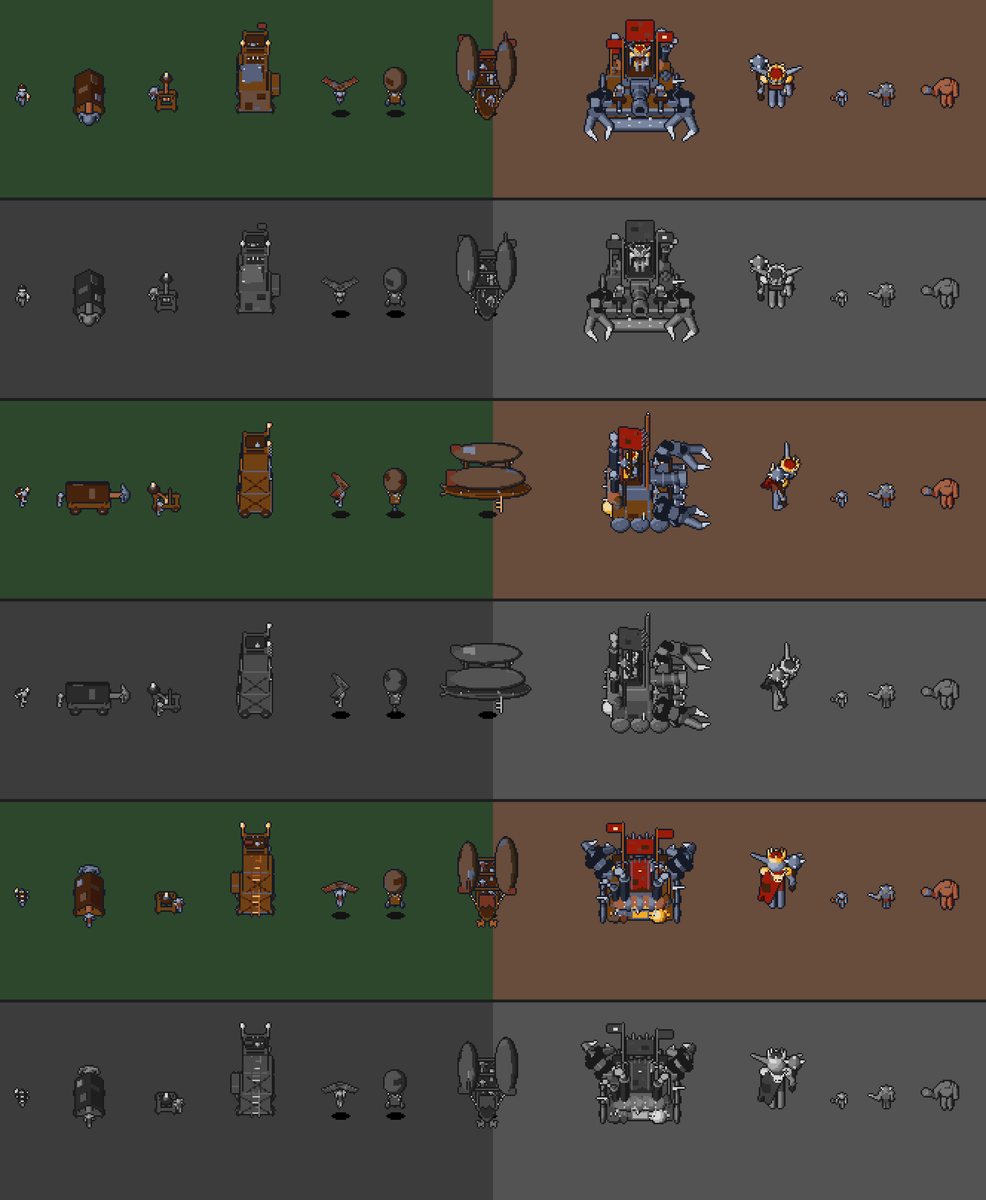
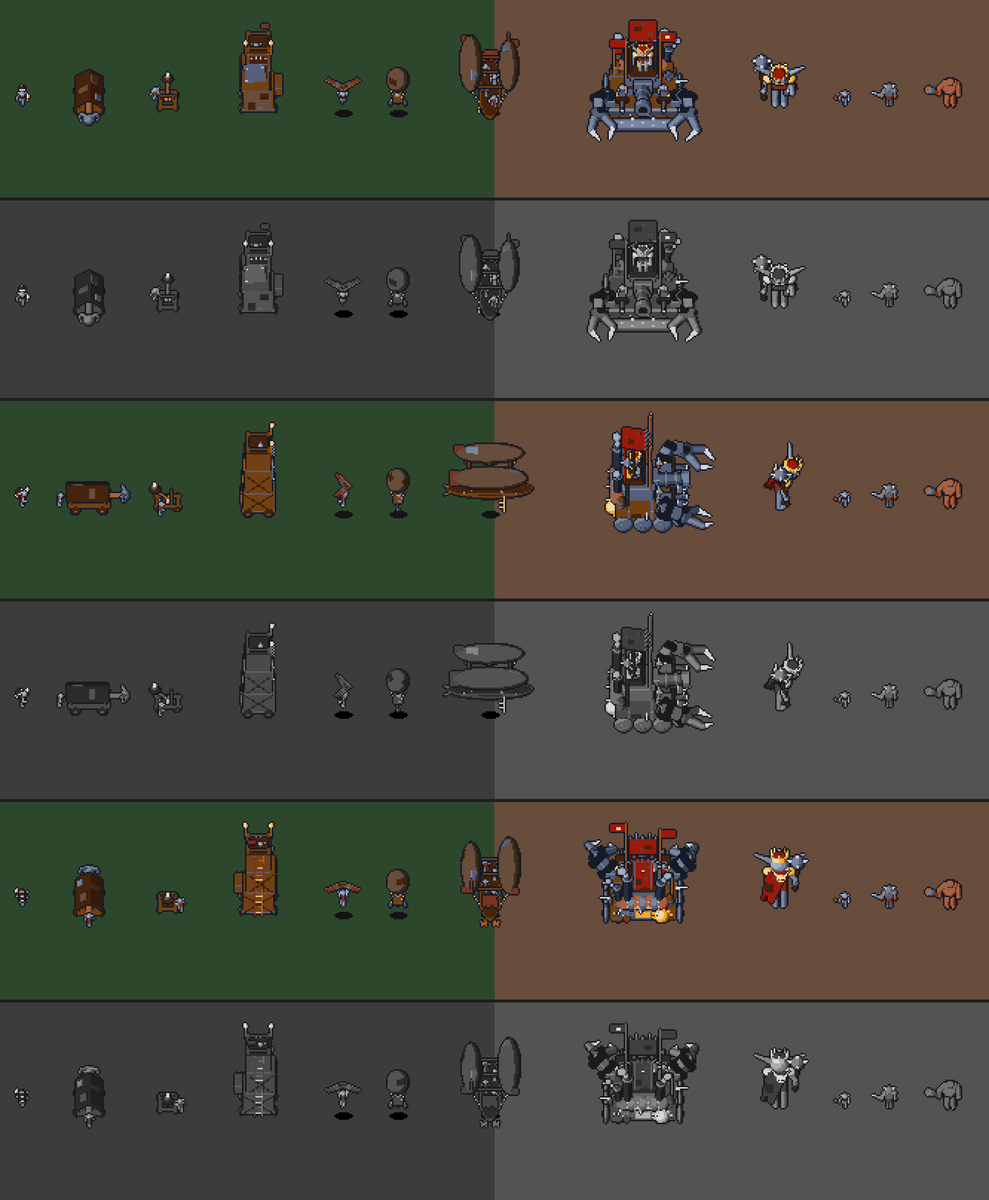
3라운드 고블린 약탈단 동작 그림 — 기계·하늘 6종 걷기 2위상·행동 자세, 설계 문서 3.11.2
시안 단계라 SPEC·EVAL·src·웨이브 수치는 그대로다. tools/art/raid.py의 MOVES에 망치·투석기·공성탑·글라이더·열기구·비행선을 더했다.
- 걷기 2위상(사용자 선택): 기계는 통과 자세에서 바퀴 위 차체만 1px 덜컹이고(lift), 땅을 걷는 고블린은 걷는다.
  하늘은 정지와 1px 출렁임을 번갈아. 글라이더 다리 바꿈, 열기구 불씨, 비행선 프로펠러 45°
- 행동 자세(Claude 안, 사용자 승인): 망치 통나무 당김 → 내지름, 투석기 장전 → 팔이 가로대에 부딪히고 통이 날아감,
  공성탑 다리판 45° → 수평, 글라이더 내린 뒤 날개를 등에 멘 고블린 내려치기, 열기구 폭탄 놓기, 비행선 사다리 매달림 → 떨어짐
- 공성탑 다리판 경첩을 위 끝으로: 아래 끝 경첩으로 내리면 북쪽 그림에서 탑 꼭대기에 늘 가렸다. 정지 그림은 그대로
- 정지 그림은 그대로(투석기만 걷는 고블린 다리로 캔버스 36→38). 전쟁 기계는 v8 Gemini 평가 뒤
- insights 3.11.2: 동작 결정, 약한 곳(비행선 투하·열기구 폭탄이 작음), 남은 그림(전쟁 기계, 잔해, fall)
- next/2026-11-02/r1.md 완료 → next/archive/2026-11-02-2/

검증: H5 통과(8종 × 정지·걷기·공격), raid.py preview 오류 없음,
전체 pytest 613 passed·51 skipped(147초), eval-run final 643 green(runOk true).

Claude-Session: https://claude.ai/code/session_01MrriHe5sVaY9UD1GxmGZ9Q

diff --git a/tools/art/raid.py b/tools/art/raid.py
@@ -55,6 +55,11 @@ def place(prims, s, at, yaw=0.0):
     return [(lambda p, f=f: s * f(((p - at) @ rot) / s), mat, part) for f, mat, part in prims]
 
 
+def lift(P, dz):
+    """형체 목록을 dz만큼 올린다. 걷기 통과 자세(bob)에서 바퀴 위 차체·하늘 탈것을 1px 덜컹·출렁이게 한다"""
+    return [(lambda p, f=f: f(p - np.array([0, 0, dz])), mat, part) for f, mat, part in P] if dz else P
+
+
 def crew(s, at, yaw=0.0, pose=IDLE, club=False):
     """작은 고블린 하나(고블린 시트 몸, 고블린 기본 0.8배에 s를 곱한 크기)"""
     body = [q for q in B.body(pose, 0) if club or q[2] != "club"]
@@ -125,8 +130,15 @@ def sapper(pose, bob_unit):
 
 
 def glider(pose, bob_unit):
-    """글라이더 고블린: 가로대를 쥐고 매달린 고블린 + 위의 뒤로 꺾인 삼각 천 날개(안쪽 기운 천, 날개 끝 넝마), 가운데 용골"""
-    p = dict(pose, sh_l=165, el_l=10, ab_l=0.3, sh_r=165, el_r=10, ab_r=0.3, hip_l=-15, hip_r=10, knee_l=40, knee_r=25)
+    """글라이더 고블린: 가로대를 쥐고 매달린 고블린 + 위의 뒤로 꺾인 삼각 천 날개(안쪽 기운 천, 날개 끝 넝마), 가운데 용골.
+    걷기 통과 자세(bob)에서 1px 출렁이며 늘어뜨린 다리를 바꾼다. 공격(pose의 landed)은 내린 뒤 날개를 등에 접어 멘 고블린의 몽둥이 내려치기다(사용자 2026-11-02)"""
+    if pose.get("landed"):
+        U = H.rig(pose, bob_unit)[0]
+        return B.body(pose, bob_unit) + [(R.capsule(U([-0.16, -0.21, 0.3]), U([0.2, -0.24, 1.25]), 0.06), m("canvas"), "gear"),  # 접은 날개 묶음
+                                         (R.capsule(U([-0.2, -0.25, 0.22]), U([0.24, -0.28, 1.36]), 0.018), m("wood"), "gear"),  # 용골
+                                         (R.ellipsoid(U([0.02, -0.22, 0.78]), (0.07, 0.07, 0.03)), m("rag"), "gear")]  # 묶은 넝마 띠
+    legs = dict(hip_l=10, hip_r=-15, knee_l=25, knee_r=40) if pose["bob"] else dict(hip_l=-15, hip_r=10, knee_l=40, knee_r=25)
+    p = dict(pose, sh_l=165, el_l=10, ab_l=0.3, sh_r=165, el_r=10, ab_r=0.3, bob=0, **legs)
     P = [q for q in B.body(p, bob_unit) if q[2] != "club"]
     z = 1.2
     nose = np.array([0, 0.38, z + 0.06])
@@ -145,7 +157,7 @@ def glider(pose, bob_unit):
         P += [(R.box(nose + d * 1.02 * t - y * s * 0.14 + ax[2] * 0.016, (0.09, 0.07, 0.006), ax), m(mat), "gear")
               for t, mat in {-1: ((0.27, "dark"),), 1: ((0.15, "dark"), (0.42, "iron"))}[s]]  # 기운 조각: 좌우 다르게(Gemini 2026-11-02 «패치워크»)
         P.append((R.capsule(nose, nose + d * 1.02, 0.018), m("wood"), "gear"))  # 앞 날개살
-    return P
+    return lift(P, pose["bob"] * bob_unit)
 
 
 SEATED = dict(IDLE, lean=0, hip_l=80, hip_r=80, knee_l=80, knee_r=80)  # 왕좌에 앉은 왕(전쟁 기계 위)
@@ -197,12 +209,14 @@ def chief(pose, bob_unit):
 
 def ram(pose, bob_unit):
     """공성 망치: 바퀴 넷 위 그을린 가죽 맞배지붕(비대칭으로 덧댄 판) 아래 큰 숫양 쇠머리 통나무(지붕 앞으로 길게 나옴), 뒤에서 미는 고블린.
-    밝은 천 지붕과 줄무늬는 «푸드트럭 포장마차»로 읽혔다(Gemini 2026-11-02)"""
-    P = []
+    밝은 천 지붕과 줄무늬는 «푸드트럭 포장마차»로 읽혔다(Gemini 2026-11-02).
+    걷기 통과 자세(bob)에서 바퀴 위 차체가 1px 덜컹이고, 공격(pose의 ram)은 통나무를 앞(+)·뒤(−)로 민다"""
+    W = []
     for x in (-0.4, 0.4):
         for y in (-0.42, 0.42):
-            P += wheel(x, y, 0.15)
-    P.append((R.box([0, 0, 0.29], (0.36, 0.62, 0.045)), m("plank"), "hull"))
+            W += wheel(x, y, 0.15)
+    push = np.array([0, pose.get("ram", 0.0), 0])
+    P = [(R.box([0, 0, 0.29], (0.36, 0.62, 0.045)), m("plank"), "hull")]
     for x in (-0.32, 0.32):
         for y in (-0.55, 0.5):
             P.append((R.capsule([x, y, 0.3], [x, y, 0.55], 0.03), m("plank"), "hull"))
@@ -212,22 +226,24 @@ def ram(pose, bob_unit):
         P.append((R.box(c, (0.25, 0.64, 0.03), ax, 0.01), m("dark"), "hull"))  # 그을린 가죽
         boards = {-1: ((0.06, -0.3, 0.13, 0.16, "canvas"), (-0.08, 0.38, 0.1, 0.12, "iron")), 1: ((-0.04, 0.12, 0.16, 0.1, "canvas"),)}[s]
         P += [(R.box(np.asarray(c) + ax[0] * u + ax[1] * v + ax[2] * 0.035, (hu, hv, 0.012), ax), m(mat), "hull") for u, v, hu, hv, mat in boards]  # 덧댄 판: 좌우가 다르게
-    P.append((R.capsule([0, -0.62, 0.42], [0, 1.02, 0.42], 0.085), m("wood"), "gear"))  # 통나무: 북쪽에서도 쇠머리가 지붕 너머로 보이게 길게(Gemini 2026-11-02)
-    P.append((R.ellipsoid([0, 1.12, 0.44], (0.17, 0.13, 0.17)), m("iron"), "gear"))  # 숫양 쇠머리: 크게, 둥글게 만 뿔
+    P.append((R.capsule(push + [0, -0.62, 0.42], push + [0, 1.02, 0.42], 0.085), m("wood"), "gear"))  # 통나무: 북쪽에서도 쇠머리가 지붕 너머로 보이게 길게(Gemini 2026-11-02)
+    P.append((R.ellipsoid(push + [0, 1.12, 0.44], (0.17, 0.13, 0.17)), m("iron"), "gear"))  # 숫양 쇠머리: 크게, 둥글게 만 뿔
     for s in (-1, 1):
-        horn = [[s * 0.1, 1.1, 0.56], [s * 0.24, 1.02, 0.6], [s * 0.3, 1.04, 0.44], [s * 0.22, 1.13, 0.36]]
+        horn = [push + p for p in ([s * 0.1, 1.1, 0.56], [s * 0.24, 1.02, 0.6], [s * 0.3, 1.04, 0.44], [s * 0.22, 1.13, 0.36])]
         P += [(R.capsule(a, b, 0.05 - 0.01 * i, 0.04 - 0.01 * i), m("iron"), "gear") for i, (a, b) in enumerate(zip(horn, horn[1:]))]
-    P += crew(0.85 / KINDS["ram"][1], [0, -0.92, 0])  # 망치를 키워도 미는 고블린은 보통 크기
-    return P
+    W += crew(0.85 / KINDS["ram"][1], [0, -0.92 + 0.5 * push[1], 0], pose=pose)  # 망치를 키워도 미는 고블린은 보통 크기. 땅을 걸으니 덜컹이지 않는다
+    return W + lift(P, pose["bob"] * bob_unit)
 
 
 def catapult(pose, bob_unit):
     """투석기: 낮은 바퀴 틀, 꼬인 밧줄 굴대, 뒤 위로 치켜든 팔 끝 큰 바구니의 불붙은 타르 통, 옆에 고블린.
-    팔을 틀 위로 들어 북쪽 뒷모습에서도 바구니와 돌이 틀 밖으로 솟는다(Gemini 2026-11-02 «개집»)"""
-    P = []
+    팔을 틀 위로 들어 북쪽 뒷모습에서도 바구니와 돌이 틀 밖으로 솟는다(Gemini 2026-11-02 «개집»).
+    걷기 통과 자세(bob)에서 바퀴 위 틀이 1px 덜컹이고, 공격(pose의 throw)은 팔이 앞으로 넘어가 앞 가로대에 부딪히며 타르 통이 앞 위로 날아간다"""
+    W = []
     for x in (-0.34, 0.34):
         for y in (-0.36, 0.36):
-            P += wheel(x, y, 0.13)
+            W += wheel(x, y, 0.13)
+    P = []
     for x in (-0.28, 0.28):
         P.append((R.box([x, 0, 0.22], (0.04, 0.5, 0.04)), m("plank"), "hull"))
     for y in (-0.4, 0.4):
@@ -236,13 +252,15 @@ def catapult(pose, bob_unit):
         P.append((R.capsule([x, 0.14, 0.24], [x, 0.14, 0.58], 0.035), m("plank"), "hull"))
     P.append((R.capsule([-0.25, 0.14, 0.56], [0.25, 0.14, 0.56], 0.03), m("plank"), "hull"))
     P.append((R.ellipsoid([0, 0.0, 0.28], (0.24, 0.06, 0.06)), m("rope"), "hull"))  # 꼬인 밧줄 굴대
-    end = np.array([0, -0.48, 0.82])
+    throw = pose.get("throw")
+    end = np.array([0, 0.27, 1.03] if throw else [0, -0.48, 0.82])  # 던진 팔: 굴대에서 거의 곧게 서서 앞 가로대(y 0.14, z 0.56)에 닿는다
     P.append((R.capsule([0, 0.08, 0.26], end, 0.045), m("wood"), "gear"))  # 치켜든 팔
     P.append((R.cut_above(R.ellipsoid(end + [0, -0.02, 0.03], (0.2, 0.2, 0.12)), end[2] - 0.06), m("dark"), "gear"))  # 큰 바구니(1.5배)
-    P.append((R.ellipsoid(end + [0, -0.02, 0.12], (0.13, 0.13, 0.11)), m("bomb"), "gear"))  # 타르 통: 흰 돌은 «눈알»로 읽혔다(Gemini 2026-11-02)
-    P.append((R.ellipsoid(end + [0, -0.02, 0.27], (0.08, 0.08, 0.11)), m("flame"), "gear"))
-    P += crew(0.85, [0.5, -0.3, 0], yaw=20)
-    return P
+    keg = np.array([0, 0.8, 1.35]) if throw else end + [0, -0.02, 0.12]  # 던지면 통이 앞 위로 날고 불은 뒤로 끌린다
+    P.append((R.ellipsoid(keg, (0.13, 0.13, 0.11)), m("bomb"), "gear"))  # 타르 통: 흰 돌은 «눈알»로 읽혔다(Gemini 2026-11-02)
+    P.append((R.ellipsoid(keg + ([0, -0.17, -0.04] if throw else [0, 0, 0.15]), (0.08, 0.08, 0.11)), m("flame"), "gear"))
+    W += crew(0.85, [0.5, -0.3, 0], yaw=20, pose=pose)  # 땅을 걸으니 덜컹이지 않는다
+    return W + lift(P, pose["bob"] * bob_unit)
 
 
 TOWER_TOP = 3.2 / KINDS["siege_tower"][1]  # 공성탑 꼭대기 바닥 높이. 배율을 곱한 3.2(모델 단위)가 성벽 윗면(약 2.4)보다 화면에서 10px쯤 위다(Gemini 2026-11-02 «8~12px»).
@@ -252,11 +270,13 @@ TOWER_TOP = 3.2 / KINDS["siege_tower"][1]  # 공성탑 꼭대기 바닥 높이. 
 def tower(pose, bob_unit):
     """공성탑: 바퀴 위 위로 좁아지는 세 단 판자 탑(가운데 단은 옆으로 비껴 쌓고 아래 단 옆에 덧붙인 상자), 옆·뒤 X자 버팀목, 뒷면 들쭉날쭉한 사다리,
     앞면 아래는 천, 가운데는 큰 철판 방패, 위는 쇠 이빨 달린 접은 다리판과 사슬, 꼭대기 난간에 고블린·깃발·앞 횃불 둘(Gemini 2026-11-02).
-    매끈한 대칭 상자는 «옷장·아파트»로 읽혔고, 횃불은 밤에도 보이게 한다"""
-    P = []
+    매끈한 대칭 상자는 «옷장·아파트»로 읽혔고, 횃불은 밤에도 보이게 한다.
+    걷기 통과 자세(bob)에서 바퀴 위 탑이 1px 덜컹이고, 공격(pose의 bridge, 도)은 다리판을 위 끝 경첩으로 앞으로 들어 걸친다(설계 문서 3.5 «사다리를 내린다»)"""
+    W = []
     for x in (-0.49, 0.49):
         for y in (-0.3, 0.3):
-            P += wheel(x, y, 0.14)
+            W += wheel(x, y, 0.14)
+    P = []
     T = TOWER_TOP
     stages = ((0.15, 0.375 * T, 0.46, 0.0), (0.375 * T, 0.7 * T, 0.4, 0.07), (0.7 * T, T, 0.34, 0.0))  # (아래 z, 위 z, 반폭, 옆으로 비낀 x)
     for z0, z1, w, dx in stages:
@@ -279,10 +299,13 @@ def tower(pose, bob_unit):
     P.append((R.box([0, 0.465, 0.6], (0.38, 0.02, 0.4)), m("canvas"), "hull"))  # 앞면 아래 천
     P += [(R.box([x, 0.49, z], (hx, 0.012, hz)), m(mat), "hull") for x, z, hx, hz, mat in
           ((-0.17, 0.82, 0.14, 0.1, "dark"), (0.19, 0.42, 0.12, 0.15, "dark"), (-0.05, 0.3, 0.08, 0.07, "iron"))]  # 덧댄 판: 비대칭
-    P.append((R.box([0, 0.37, T - 0.55], (0.26, 0.04, 0.42)), m("dark"), "gear"))  # 접은 다리판(줄무늬 없음)
-    P += [(R.box([0, 0.41, T - z], (0.27, 0.015, 0.018)), m("iron"), "gear") for z in (0.8, 0.4)]
-    P += [(R.capsule([x, 0.41, T - 0.15], [x, 0.47, T - 0.03], 0.022, 0.006), m("light"), "gear") for x in (-0.18, -0.06, 0.06, 0.18)]  # 쇠 이빨
-    P += [(R.capsule([s * 0.3, 0.32, T], [s * 0.24, 0.41, T - 0.17], 0.012), m("iron"), "gear") for s in (-1, 1)]  # 사슬
+    # 경첩은 다리판 위 끝. 아래 끝 경첩으로 내리면 다리판(z+y 2.7)이 북쪽 그림에서 탑 꼭대기 앞 모서리(z+y 2.8)에 늘 가렸다
+    hinge, rot = np.array([0, 0.37, T - 0.13]), tilt_x(-pose.get("bridge", 0))
+    board = [(R.box([0, 0.37, T - 0.55], (0.26, 0.04, 0.42)), m("dark"), "gear")]  # 접은 다리판(줄무늬 없음)
+    board += [(R.box([0, 0.41, T - z], (0.27, 0.015, 0.018)), m("iron"), "gear") for z in (0.8, 0.4)]
+    board += [(R.capsule([x, 0.41, T - 0.15], [x, 0.47, T - 0.03], 0.022, 0.006), m("light"), "gear") for x in (-0.18, -0.06, 0.06, 0.18)]  # 쇠 이빨
+    P += [(lambda p, f=f: f(hinge + (p - hinge) @ rot), mat, part) for f, mat, part in board]
+    P += [(R.capsule([s * 0.3, 0.32, T], hinge + rot @ (np.array([s * 0.24, 0.41, T - 0.17]) - hinge), 0.012), m("iron"), "gear") for s in (-1, 1)]  # 사슬
     P.append((R.box([0, 0, T + 0.02], (0.36, 0.36, 0.03)), m("dark"), "hull"))  # 꼭대기 바닥
     for x in (-0.31, 0.31):
         for y in (-0.31, 0.31):
@@ -294,7 +317,7 @@ def tower(pose, bob_unit):
     for x in (-0.38, 0.38):  # 앞 횃불 둘
         P += [(R.capsule([x, 0.36, T], [x, 0.4, T + 0.42], 0.022), m("wood"), "gear"),
               (R.ellipsoid([x, 0.41, T + 0.5], (0.06, 0.06, 0.09)), m("flame"), "gear")]
-    return P
+    return W + lift(P, pose["bob"] * bob_unit)
 
 
 KING_ON_MACHINE = 1.6  # 전쟁 기계 위 왕의 크기 배율(내린 대장은 KINDS의 값). Claude 시안 값
@@ -464,12 +487,15 @@ def war_machine(pose, bob_unit):
 # ── 하늘 ───────────────────────────────────────────
 
 def balloon(pose, bob_unit):
-    """폭탄 열기구: 회갈색 천 풍선에 비대칭으로 기워 붙인 조각, 불씨, 밧줄, 고리버들 바구니의 고블린, 양옆 긴 밧줄에 늘어뜨린 폭탄"""
+    """폭탄 열기구: 회갈색 천 풍선에 비대칭으로 기워 붙인 조각, 불씨, 밧줄, 고리버들 바구니의 고블린, 양옆 긴 밧줄에 늘어뜨린 폭탄.
+    걷기 통과 자세(bob)에서 1px 출렁이며 불씨가 커진다. 공격(pose의 drop)은 0이면 고블린이 오른쪽으로 몸을 내밀어 밧줄을 잡고, 1이면 그 폭탄이 떨어진다"""
     z0 = 0.25
+    drop = pose.get("drop", -1)
     env = R.ellipsoid([0, 0, 1.32], (0.42, 0.42, 0.48))
     shell = R.ellipsoid([0, 0, 1.32], (0.428, 0.428, 0.488))
+    fl = 0.01 * pose["bob"]
     P = [(env, m("canvas"), "hull"),
-         (R.ellipsoid([0, 0, 0.86], (0.05, 0.05, 0.07)), m("flame"), "gear")]
+         (R.ellipsoid([0, 0, 0.86], (0.05 + fl, 0.05 + fl, 0.07 + 2 * fl)), m("flame"), "gear")]
     P += [(patch(shell, c, h), m(mat), "hull") for c, h, mat in
           (([0.2, 0.3, 1.5], (0.14, 0.2, 0.11), "dark"), ([-0.32, -0.1, 1.2], (0.2, 0.14, 0.13), "iron"),
            ([0.1, -0.35, 1.62], (0.16, 0.2, 0.09), "dark"))]  # 기운 조각(Gemini 2026-11-02 «패치워크»)
@@ -477,19 +503,25 @@ def balloon(pose, bob_unit):
         for y in (-0.15, 0.15):
             P.append((R.capsule([x, y, z0 + 0.26], [x * 1.7, y * 1.7, 0.98], 0.012), m("rope"), "gear"))
     P.append((R.box([0, 0, z0 + 0.13], (0.17, 0.17, 0.13), rnd=0.02), m("plank"), "hull"))
-    P += crew(0.85, [0, -0.02, 0.02])
+    P += crew(0.85, [0, -0.02, 0.02]) if drop < 0 else crew(0.85, [0.03, -0.02, 0.02], yaw=-90, pose=dict(IDLE, lean=35, sh_l=90, el_l=10, sh_r=90, el_r=10))
     for s in (-1, 1):  # 바구니 밑 장식으로 읽히지 않게 옆으로 빼서 길게 늘어뜨린다(Gemini 2026-11-02)
+        if s == 1 and drop == 1:  # 놓은 밧줄은 짧게 늘어지고 폭탄은 바구니 아래로 떨어진다
+            P += [(R.capsule([0.17, 0, z0 + 0.2], [0.21, 0, z0 + 0.02], 0.01), m("rope"), "gear"),
+                  (R.ellipsoid([0.3, 0, z0 - 0.6], (0.075, 0.075, 0.075)), m("bomb"), "gear")]
+            continue
         P += [(R.capsule([s * 0.17, 0, z0 + 0.2], [s * 0.27, 0, z0 - 0.12], 0.01), m("rope"), "gear"),
               (R.ellipsoid([s * 0.28, 0, z0 - 0.2], (0.075, 0.075, 0.075)), m("bomb"), "gear")]
-    return P
+    return lift(P, pose["bob"] * bob_unit)
 
 
 def airship(pose, bob_unit):
     """수송 비행선(떼를 나르는 모함): 크기가 다른 두 풍선을 벌려 묶은 들보, 풍선보다 긴 나무 배의 고블린 넷, 뒤 돛대의 찢어진 돛,
     선미 나무 프로펠러 둘, 오른쪽 뱃전의 밧줄 사다리. 크기는 Gemini 권장 가로 2.5칸 × 세로 4칸(약 40×64px).
     풍선 하나에 작은 배는 «1인승 카누»로, 붙은 같은 풍선 둘은 북쪽에서 배를 가려 «소시지 두 개»로 읽혔다(Gemini 2026-11-02, 사용자 «웅장한 느낌이 안 듬»).
-    그래서 풍선 사이를 벌려 갑판·돛이 보이게 하고, 배를 풍선보다 길게 해 선미·프로펠러가 북쪽 그림에서 밖으로 나오게 한다"""
+    그래서 풍선 사이를 벌려 갑판·돛이 보이게 하고, 배를 풍선보다 길게 해 선미·프로펠러가 북쪽 그림에서 밖으로 나오게 한다.
+    걷기 통과 자세(bob)에서 1px 출렁이며 프로펠러가 45° 돈다. 공격(pose의 drop)은 사다리 곁 고블린이 0이면 밧줄 사다리에 매달려 내려가고, 1이면 그 아래로 떨어진다"""
     zd = 0.91  # 갑판 높이
+    drop = pose.get("drop", -1)
     envs = ((-0.72, 2.1, (0.36, 1.3, 0.38)), (0.74, 2.2, (0.42, 1.45, 0.44)))  # (x, z, 반지름): 작은 왼쪽, 큰 오른쪽
     P = []
     for x, z, r in envs:
@@ -505,8 +537,12 @@ def airship(pose, bob_unit):
     P.append((R.ellipsoid([0, 0, zd], (0.4, 1.6, 0.025)), m("dark"), "hull"))  # 갑판
     P += [(R.box([s * 0.36, 0, zd + 0.06], (0.02, 1.1, 0.05)), m("plank"), "hull") for s in (-1, 1)]  # 뱃전
     P += [(R.capsule([s * 0.36, t * 1.0, zd + 0.06], [envs[(s + 1) // 2][0], t * 0.95, 1.75], 0.012), m("rope"), "gear") for s in (-1, 1) for t in (-1, 1)]
-    for x, y in ((-0.15, 1.0), (0.18, 0.45), (-0.18, -0.15), (0.15, -0.7)):  # 탄 고블린 넷
+    for x, y in ((-0.15, 1.0), (-0.18, -0.15), (0.15, -0.7)) + (((0.18, 0.45),) if drop < 0 else ()):  # 탄 고블린 넷
         P += crew(0.8, [x, y, zd])
+    if drop >= 0:  # 사다리(x 0.41) 바깥에 매달린 고블린, 이어서 떨어지는 고블린
+        P += crew(0.8, [0.5, 0.45, 0.15] if drop == 0 else [0.55, 0.45, -0.5], yaw=90,
+                  pose=dict(IDLE, lean=0, sh_l=170, el_l=10, sh_r=170, el_r=10, hip_l=30, knee_l=60, hip_r=10, knee_r=30) if drop == 0
+                  else dict(IDLE, lean=-10, sh_l=150, el_l=30, ab_l=0.8, sh_r=150, el_r=30, ab_r=0.8, hip_l=-20, hip_r=30, knee_l=40, knee_r=40))
     sy = -1.2
     sail = R.box([0, sy, 1.45], (0.28, 0.012, 0.28))
     tears = [R.box(c, h, tilt_y(45)) for c, h in (([0.1, sy, 1.18], (0.07, 0.05, 0.07)), ([-0.18, sy, 1.2], (0.05, 0.05, 0.05)), ([0.26, sy, 1.62], (0.05, 0.05, 0.05)))]
@@ -515,10 +551,10 @@ def airship(pose, bob_unit):
     for s in (-1, 1):  # 선미 나무 프로펠러
         P += [(R.capsule([s * 0.12, -1.45, zd - 0.08], [s * 0.24, -1.74, 0.82], 0.025), m("wood"), "gear"),
               (R.ellipsoid([s * 0.24, -1.76, 0.82], (0.04, 0.04, 0.04)), m("iron"), "gear")]
-        P += [(R.box([s * 0.24, -1.79, 0.82], (0.17, 0.012, 0.035), tilt_y(a)), m("wood"), "gear") for a in (45, -45)]
+        P += [(R.box([s * 0.24, -1.79, 0.82], (0.17, 0.012, 0.035), tilt_y(a + 45 * pose["bob"])), m("wood"), "gear") for a in (45, -45)]
     P += [(R.capsule([0.4, y, zd], [0.42, y, 0.05], 0.012), m("rope"), "gear") for y in (0.35, 0.55)]  # 밧줄 사다리
     P += [(R.capsule([0.41, 0.35, z], [0.41, 0.55, z], 0.01), m("rope"), "gear") for z in np.linspace(0.15, 0.8, 6)]
-    return P
+    return lift(P, pose["bob"] * bob_unit)
 
 
 def model(kind):
@@ -533,7 +569,19 @@ SAPPER_FUSE = [dict(CROUCH, sh_l=100, el_l=20, ab_l=-0.6, torch=(0.22, -0.06, 0.
                dict(CROUCH, sh_l=35, el_l=40, ab_l=0.9, torch=(0, 0.03, 0.2), fuse=0.06)]  # 도화선이 탄다(불꽃을 키운다)
 # 대장 내려침: 철퇴 머리가 오른쪽 앞 땅에 닿는다. 고블린 몽둥이 각(110)이면 땅을 뚫었고, 바깥 기울기(sword_side)가 0이면 북쪽에서 철퇴가 몸에 가렸다
 CHIEF_SWING = [dict(B.ATTACK[0], swing=True), dict(B.ATTACK[1], sword=90, sword_side=45, swing=True)]
-MOVES = {"sapper": {"walk": B.WALK, "attack": SAPPER_FUSE}, "chief": {"walk": B.WALK, "attack": CHIEF_SWING}}  # 종류 → 정지 말고 더 굽는 동작
+# 기계 셋(사용자 2026-11-02 Claude 안 승인): 걷기는 고블린 걷기 그대로 넘겨 통과 자세(bob)에서 차체가 1px 덜컹이고 땅의 고블린은 걷는다
+RAM_HIT = [dict(IDLE, ram=-0.18, lean=-5, sh_l=60, el_l=60, sh_r=60, el_r=60),  # 통나무를 뒤로 당긴다
+           dict(IDLE, ram=0.3, lean=30, sh_l=85, el_l=10, sh_r=85, el_r=10, hip_r=30, hip_l=-25, knee_l=10)]  # 앞으로 내지르고 미는 고블린이 숙인다
+CATAPULT_THROW = [dict(IDLE, lean=20, sh_r=60, el_r=60), dict(IDLE, throw=True, sh_r=150, el_r=20)]  # 장전한 채 버틴다 → 던지고 팔을 든다
+TOWER_DROP = [dict(IDLE, bridge=45), dict(IDLE, bridge=90)]  # 다리판을 반쯤 → 수평으로 걸친다. 성벽 윗면까지 기울이면 북쪽 그림에서 다시 가린다
+# 하늘 셋(사용자 2026-11-02 Claude 안 승인): 걷기는 정지와 1px 출렁임을 번갈아. 글라이더 공격은 내린 뒤의 고블린 공격, 열기구·비행선은 투하
+SWAY = [IDLE, dict(IDLE, bob=1)] * 2
+DROP = [dict(IDLE, drop=0), dict(IDLE, drop=1)]
+MOVES = {"sapper": {"walk": B.WALK, "attack": SAPPER_FUSE}, "chief": {"walk": B.WALK, "attack": CHIEF_SWING},
+         "ram": {"walk": B.WALK, "attack": RAM_HIT}, "catapult": {"walk": B.WALK, "attack": CATAPULT_THROW},
+         "siege_tower": {"walk": B.WALK, "attack": TOWER_DROP},
+         "glider": {"walk": SWAY, "attack": [dict(a, landed=True) for a in B.ATTACK]},
+         "balloon": {"walk": SWAY, "attack": DROP}, "airship": {"walk": SWAY, "attack": DROP}}  # 종류 → 정지 말고 더 굽는 동작
 
 
 def fits(kind, out=None):

diff --git a/insights/2026-10-27_round3_goblin.md b/insights/2026-10-27_round3_goblin.md
@@ -196,6 +196,38 @@
   - 그림은 집게가 보병 하나를 감쌀 크기로 지었다(Gemini v6 «집어 던지는 타격감을 표현하기에 좋다»).
 - **다음**: 일반 7종과 대장은 동작 그림(이동 2위상·행동 자세)으로 넘어간다(Gemini v5·v6·v7 평가 모두 «넘어가도 된다»). 전쟁 기계는 v8 Gemini 평가 뒤에 넘어간다.
 
+#### 3.11.2 동작 그림 (2026-11-02)
+
+- **범위**: 전쟁 기계를 뺀 8종이다. 폭파병·대장은 커밋 `84fd5b1`에서, 기계·하늘 6종은 그다음 커밋에서 그렸다.
+  - `tools/art/raid.py`의 `MOVES`에 둔 종류만 걷기·공격 시트를 더 굽는다.
+  - 게임이 쓰는 칸은 사람형과 같다. 걷기는 0·1칸, 공격은 1칸(행동의 정점)이다(`tools/art/atlas.py` `FOUR_COLS`).
+- **이동은 2위상**이다(사용자 2026-11-02 선택, 하피 날갯짓과 같은 꼴).
+  - 사람형(폭파병·대장): 고블린 걷기 그대로
+  - 기계 셋: 통과 자세에서 바퀴 위 차체만 1px 덜컹인다. 땅을 걷는 고블린(망치·투석기)은 걷는다.
+  - 하늘 셋: 정지와 1px 출렁임을 번갈아 쓴다. 글라이더는 늘어뜨린 다리를 바꾸고, 열기구는 불씨가 커지고, 비행선은 프로펠러가 45° 돈다.
+- **행동 자세**: 폭파병 쪼그림은 3.11 표를 따랐다. 나머지는 Claude 안이고 사용자가 승인했다(2026-11-02).
+
+| 종류 | 1자세 | 2자세(게임이 쓰는 정점) |
+|---|---|---|
+| 폭파병 | 화약통을 내려놓고 쪼그려 왼손 횃불을 도화선에 댄다 | 도화선이 탄다 |
+| 대장 | 철퇴를 들어 올린다 | 철퇴 머리가 오른쪽 앞 땅에 닿게 내려친다 |
+| 망치 | 통나무를 뒤로 당긴다 | 앞으로 내지르고 미는 고블린이 숙인다 |
+| 투석기 | 장전한 채 고블린이 버틴다 | 팔이 앞 가로대에 부딪히고 불붙은 통이 앞 위로 난다 |
+| 공성탑 | 앞 다리판을 45° 든다 | 다리판을 수평으로 앞에 걸친다 |
+| 글라이더 | 내린 뒤 날개를 등에 접어 멘 고블린이 몽둥이를 들어 올린다 | 내려친다 |
+| 열기구 | 고블린이 오른쪽으로 몸을 내밀어 폭탄 밧줄을 잡는다 | 그 폭탄이 바구니 아래로 떨어진다 |
+| 비행선 | 사다리 곁 고블린이 오른쪽 밧줄 사다리에 매달려 내려간다 | 그 아래로 떨어진다 |
+
+- **공성탑 다리판은 «내리기» 대신 «들어 걸치기»로 그린다.** 3.5의 사다리 판정은 그대로이고 그림만 다르다.
+  - 아래 끝 경첩으로 내리면 다리판이 북쪽 그림(뒷모습)에서 탑 꼭대기 앞 모서리에 늘 가렸다. 그래서 경첩을 다리판 위 끝으로 옮겨 수평으로 걸친다.
+  - 성벽 윗면까지 기울이면 다시 가린다. 정지 그림은 그대로다.
+- **글라이더가 내린 뒤 걷기**: 글라이더 시트의 걷기는 나는 모습이다. 내린 뒤 걷기 시트를 따로 둘지는 게임에 넣을 때 정한다(사용자 2026-11-02).
+- **약한 곳**: 비행선 투하는 북쪽 그림에서 떨어지는 고블린이 작고, 열기구 폭탄은 2~3px 점이다. 게임에서는 투하 표식·원 예고가 함께 뜬다.
+- **남은 그림**
+  - 전쟁 기계 동작: v8 Gemini 평가 뒤에 한다(한도 초과로 미뤘다).
+  - 2페이즈 수레 잔해
+  - 8종의 쓰러짐(`fall`) 시트
+
 ### 3.12 바뀌는 SPEC·EVAL 문장
 
 | 문장 | 바뀌는 것 |

diff --git a/next/archive/2026-11-02-2/r1.md b/next/archive/2026-11-02-2/r1.md
@@ -1,7 +1,7 @@
 ---
 title: 3라운드 고블린 약탈단 동작 그림 — 일반 7종·대장의 걷기 2위상·행동 자세 (전쟁 기계는 Gemini v8 평가 뒤)
 kind: implementation        # implementation | research
-status: resumed
+status: done
 created: 2026-11-02T14:54+09:00
 reason: context             # context | switch | end-of-day | blocked
 branch: feat/round3-goblin-art
@@ -10,7 +10,7 @@ dirty: true
 worktree: 70eb428f1c3e
 session: 620609dd-35f0-4bda-9e31-ddd32cd5d9b2
 previous: next/2026-11-01/r6.md
-resumed: 2026-11-02T15:09+09:00
+resumed: 2026-11-02T16:05+09:00
 ---
 
 # 3라운드 고블린 약탈단 동작 그림 (일반 7종 + 대장)
